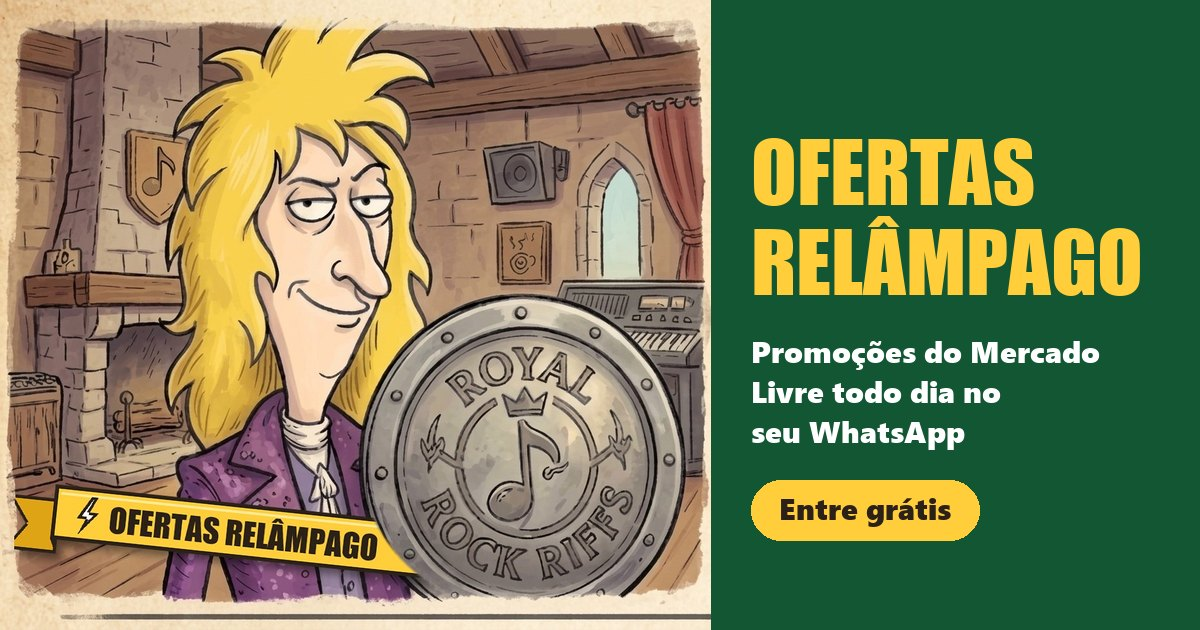
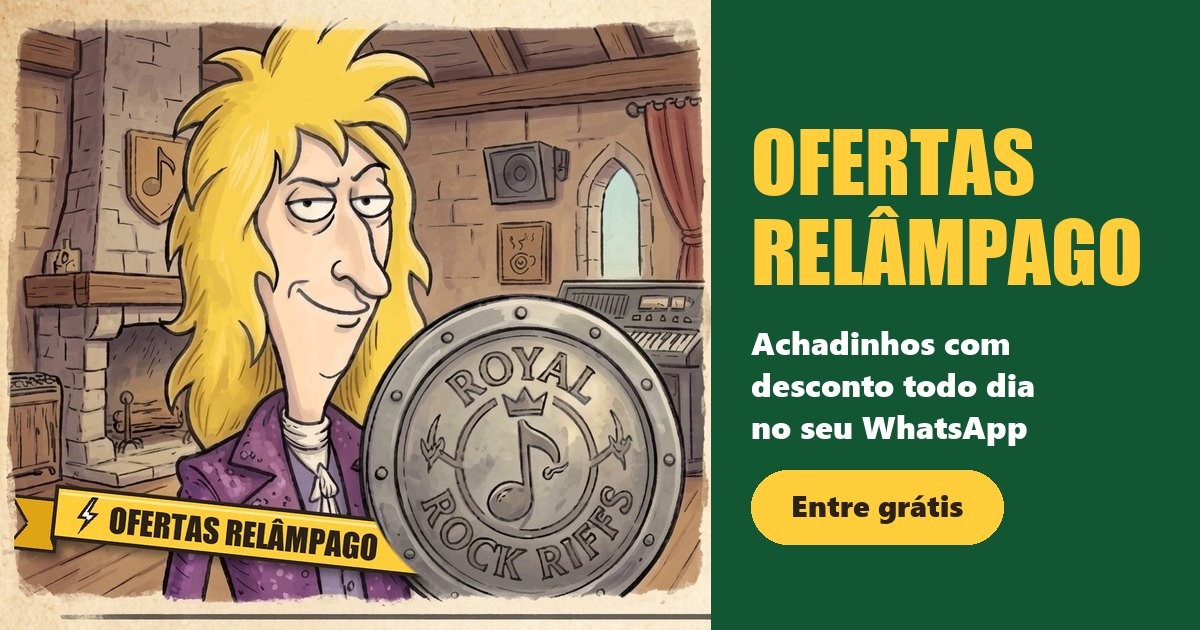
Endereço novo, regras do programa de afiliados e criativos
- Landing em ofertas-relampago.github.io com og:image para prévia de link
- Aviso de grupo independente e links de afiliado (landing e política)
- Mercado Livre só citado de forma descritiva; marca própria em destaque
- criativos/gerar.py recria logo, prévia e criativos de feed/stories

Changed region(s): [[0.6167, 0.5127, 0.925, 0.8746], [0.6167, 0.181, 0.9558, 0.4825]]

diff --git a/docs/index.html b/docs/index.html
@@ -4,10 +4,15 @@
   <meta charset="utf-8">
   <meta name="viewport" content="width=device-width,initial-scale=1">
   <title>Ofertas Relâmpago no WhatsApp</title>
-  <meta name="description" content="Promoções do Mercado Livre selecionadas todos os dias, direto no seu WhatsApp. Grátis.">
+  <meta name="description" content="Achadinhos com desconto selecionados todos os dias, direto no seu WhatsApp. Grátis.">
   <meta property="og:title" content="Ofertas Relâmpago no WhatsApp">
-  <meta property="og:description" content="+10 promoções do Mercado Livre por dia. Entre no grupo, é grátis.">
+  <meta property="og:description" content="+10 achadinhos com desconto por dia. Entre no grupo, é grátis.">
   <meta property="og:type" content="website">
+  <meta property="og:url" content="https://ofertas-relampago.github.io/">
+  <meta property="og:image" content="https://ofertas-relampago.github.io/og.jpg">
+  <meta property="og:image:width" content="1200">
+  <meta property="og:image:height" content="630">
+  <meta name="twitter:card" content="summary_large_image">
   <meta name="theme-color" content="#128C7E">
   <link rel="icon" type="image/png" href="icone.png">
   <link rel="preconnect" href="https://connect.facebook.net">
@@ -101,8 +106,8 @@
   <main class="card">
     <img class="logo" src="logo.jpg" width="720" height="638" alt="Ofertas Relâmpago">
     <span class="badge">🔥 +10 ofertas por dia</span>
-    <h1>Promoções do Mercado Livre direto no seu WhatsApp</h1>
-    <p class="sub">Cupons, descontos relâmpago e preços baixos selecionados todos os dias.</p>
+    <h1>Achadinhos com desconto direto no seu WhatsApp</h1>
+    <p class="sub">Cupons e descontos relâmpago de produtos do Mercado Livre, selecionados todos os dias.</p>
     <ul>
       <li>✅ Ofertas novas todos os dias</li>
       <li>✅ 100% gratuito</li>
@@ -112,6 +117,8 @@
     <p class="nota">Você será direcionado ao WhatsApp</p>
   </main>
   <footer>
+    Grupo independente, sem vínculo oficial com o Mercado Livre. Os links enviados no grupo são links de
+    afiliado: podemos receber comissão pelas compras, sem custo extra para você.<br>
     Usamos cookies de medição (Meta e TikTok) para saber de onde vêm os visitantes.
     <a href="privacidade.html">Política de privacidade</a>
   </footer>

diff --git a/docs/privacidade.html b/docs/privacidade.html
@@ -32,6 +32,9 @@
     <h2>Grupo do WhatsApp</h2>
     <p>Ao entrar no grupo, seu número fica visível aos administradores e participantes, conforme o funcionamento
       do WhatsApp. Você pode sair a qualquer momento.</p>
+    <h2>Links de afiliado</h2>
+    <p>Somos um grupo independente, sem vínculo oficial com o Mercado Livre. As ofertas compartilhadas usam links
+      de afiliado: se você comprar por eles, podemos receber uma comissão, sem nenhum custo extra para você.</p>
     <h2>Contato</h2>
     <p>Responsável: administração do grupo Ofertas Relâmpago. Para dúvidas ou para pedir a exclusão dos seus dados,
       escreva para <a href="mailto:ch.alves.it@gmail.com">ch.alves.it@gmail.com</a>.</p>

diff --git a/criativos/gerar.py b/criativos/gerar.py
@@ -1,0 +1,84 @@
+"""Gera as imagens de divulgação a partir de criativos/logo-mestre.jpg.
+
+    python criativos/gerar.py
+
+Saídas: docs/logo.jpg, docs/og.jpg (prévia de link), criativos/feed-1080x1080.jpg,
+criativos/stories-1080x1920.jpg. Regra do programa de afiliados: marca própria em destaque,
+Mercado Livre só citado de forma descritiva, nunca a logo dele.
+"""
+from pathlib import Path
+
+from PIL import Image, ImageDraw, ImageFont
+
+RAIZ = Path(__file__).resolve().parent.parent
+PASTA = RAIZ / "criativos"
+DOCS = RAIZ / "docs"
+FONTES = Path("C:/Windows/Fonts")
+
+VERDE, AMARELO, TINTA, BRANCO = (18, 86, 52), (255, 206, 58), (43, 33, 24), (255, 255, 255)
+
+
+def impact(tam):
+    return ImageFont.truetype(str(FONTES / "impact.ttf"), tam)
+
+
+def segoe(tam):
+    return ImageFont.truetype(str(FONTES / "seguibl.ttf"), tam)
+
+
+def centralizado(d, y, texto, fonte, cor, largura):
+    d.text(((largura - d.textlength(texto, font=fonte)) / 2, y), texto, font=fonte, fill=cor)
+
+
+def botao(d, y, texto, fonte, largura, x=None):
+    tw = d.textlength(texto, font=fonte)
+    x = (largura - tw) / 2 - 40 if x is None else x
+    altura = fonte.size + 44
+    d.rounded_rectangle((x, y, x + tw + 80, y + altura), radius=altura // 2, fill=AMARELO)
+    d.text((x + 40, y + 14), texto, font=fonte, fill=TINTA)
+
+
+def gerar():
+    logo = Image.open(PASTA / "logo-mestre.jpg").convert("RGB")
+
+    logo.resize((720, round(720 * logo.height / logo.width)), Image.LANCZOS).save(
+        DOCS / "logo.jpg", quality=85, optimize=True, progressive=True)
+
+    # Prévia de link (Facebook/WhatsApp): 1200x630
+    og = Image.new("RGB", (1200, 630), VERDE)
+    w = round(630 * logo.width / logo.height)
+    og.paste(logo.resize((w, 630), Image.LANCZOS), (0, 0))
+    d = ImageDraw.Draw(og)
+    x0 = w + 40
+    d.text((x0, 110), "OFERTAS", font=impact(84), fill=AMARELO)
+    d.text((x0, 200), "RELÂMPAGO", font=impact(84), fill=AMARELO)
+    y = 320
+    for linha in ("Achadinhos com", "desconto todo dia", "no seu WhatsApp"):
+        d.text((x0, y), linha, font=segoe(32), fill=BRANCO)
+        y += 42
+    botao(d, 470, "Entre grátis", segoe(30), 1200, x=x0)
+    og.save(DOCS / "og.jpg", quality=86, optimize=True)
+
+    # Feed 1080x1080
+    c = Image.new("RGB", (1080, 1080), VERDE)
+    c.paste(logo.resize((720, 638), Image.LANCZOS), (180, 40))
+    d = ImageDraw.Draw(c)
+    centralizado(d, 700, "ACHADINHOS COM DESCONTO", impact(72), AMARELO, 1080)
+    centralizado(d, 792, "todo dia no seu WhatsApp", segoe(46), BRANCO, 1080)
+    botao(d, 900, "Entre grátis no grupo", segoe(46), 1080)
+    c.save(PASTA / "feed-1080x1080.jpg", quality=90)
+
+    # Stories/Reels 1080x1920 (texto fora dos ~250px de cima e de baixo)
+    c = Image.new("RGB", (1080, 1920), VERDE)
+    c.paste(logo.resize((1000, 886), Image.LANCZOS), (40, 300))
+    d = ImageDraw.Draw(c)
+    centralizado(d, 1230, "ACHADINHOS", impact(116), AMARELO, 1080)
+    centralizado(d, 1360, "COM DESCONTO", impact(116), AMARELO, 1080)
+    centralizado(d, 1500, "todo dia no seu WhatsApp", segoe(52), BRANCO, 1080)
+    botao(d, 1600, "Entre grátis no grupo", segoe(50), 1080)
+    c.save(PASTA / "stories-1080x1920.jpg", quality=90)
+
+
+if __name__ == "__main__":
+    gerar()
+    print("Imagens geradas em docs/ e criativos/")

diff --git a/README.md b/README.md
@@ -56,11 +56,11 @@ Isso gera `docs/config.js`. **Sempre que mudar o `.env`, rode de novo e publique
 
 ## 3. GitHub Pages (hospedagem da landing)
 
-1. Crie um repositório **público** no GitHub (ex.: `ofertas`).
+1. Repositório **público** `ofertas-relampago/ofertas-relampago.github.io` (organização no GitHub).
 2. Envie os arquivos (Git, GitHub Desktop, ou "Add file > Upload files" no site).
    O `.gitignore` já impede que `.env`, `dados/` e `relatorios/` subam.
 3. Settings > Pages > *Deploy from a branch* > `main` / pasta **`/docs`**.
-4. A página fica em `https://SEU_USUARIO.github.io/ofertas/`.
+4. A página fica em `https://ofertas-relampago.github.io/`.
 
 ## 4. Meta Ads
 
@@ -78,8 +78,8 @@ Isso gera `docs/config.js`. **Sempre que mudar o `.env`, rode de novo e publique
 
 Use links com UTM (o navegador do TikTok costuma não informar a origem sozinho):
 
-- Bio: `https://SEU_USUARIO.github.io/ofertas/?utm_source=tiktok&utm_medium=bio&utm_content=bio`
-- Por vídeo (comentário fixado / link): `...?utm_source=tiktok&utm_medium=video&utm_content=nome-do-video`
+- Bio: `https://ofertas-relampago.github.io/?utm_source=tiktok&utm_medium=bio&utm_content=bio`
+- Por vídeo (comentário fixado / link): `https://ofertas-relampago.github.io/?utm_source=tiktok&utm_medium=video&utm_content=nome-do-video`
 
 O relatório mostra quantos cliques cada vídeo gerou. `TIKTOK_PIXEL_ID` e as chaves de TikTok Ads
 só são necessários se um dia rodar anúncio pago lá.
@@ -106,6 +106,14 @@ python -m gestor relatorio --offline    # sem chamar APIs, usa o CSV local
 1. Crie um novo grupo e copie o link de convite.
 2. No `.env`: `GRUPOS_WHATSAPP=link1,link2` e `GRUPO_ATIVO=1`.
 3. `python -m gestor landing` e publique o `docs/config.js`. Nenhum anúncio precisa ser alterado.
+
+## Regras do programa de afiliados
+
+- O anúncio leva **sempre** para a landing (estrutura própria), nunca direto para link de afiliado.
+- Nada de Google/Bing/YouTube Ads, Search ou Shopping com produtos do Mercado Livre (gera banimento).
+- Não usar a logo do Mercado Livre nem parecer canal oficial; a marca é "Ofertas Relâmpago".
+- Declarar no cadastro de afiliado todos os canais: landing, grupo(s) do WhatsApp, Instagram/Facebook Ads.
+- Criativos próprios; evitar fotos de catálogo dos vendedores.
 
 ## Segurança
 
